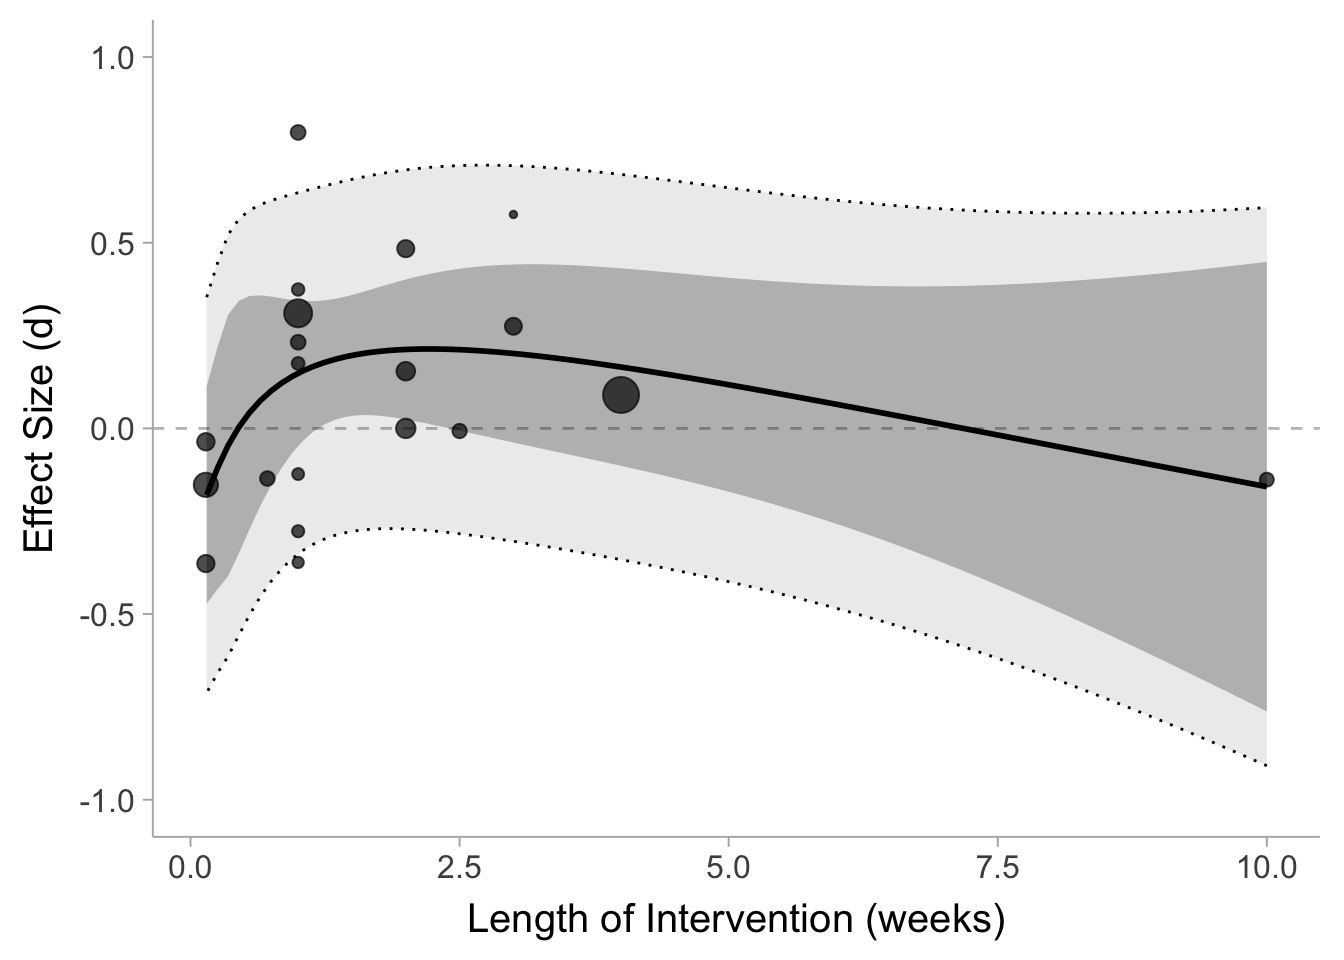
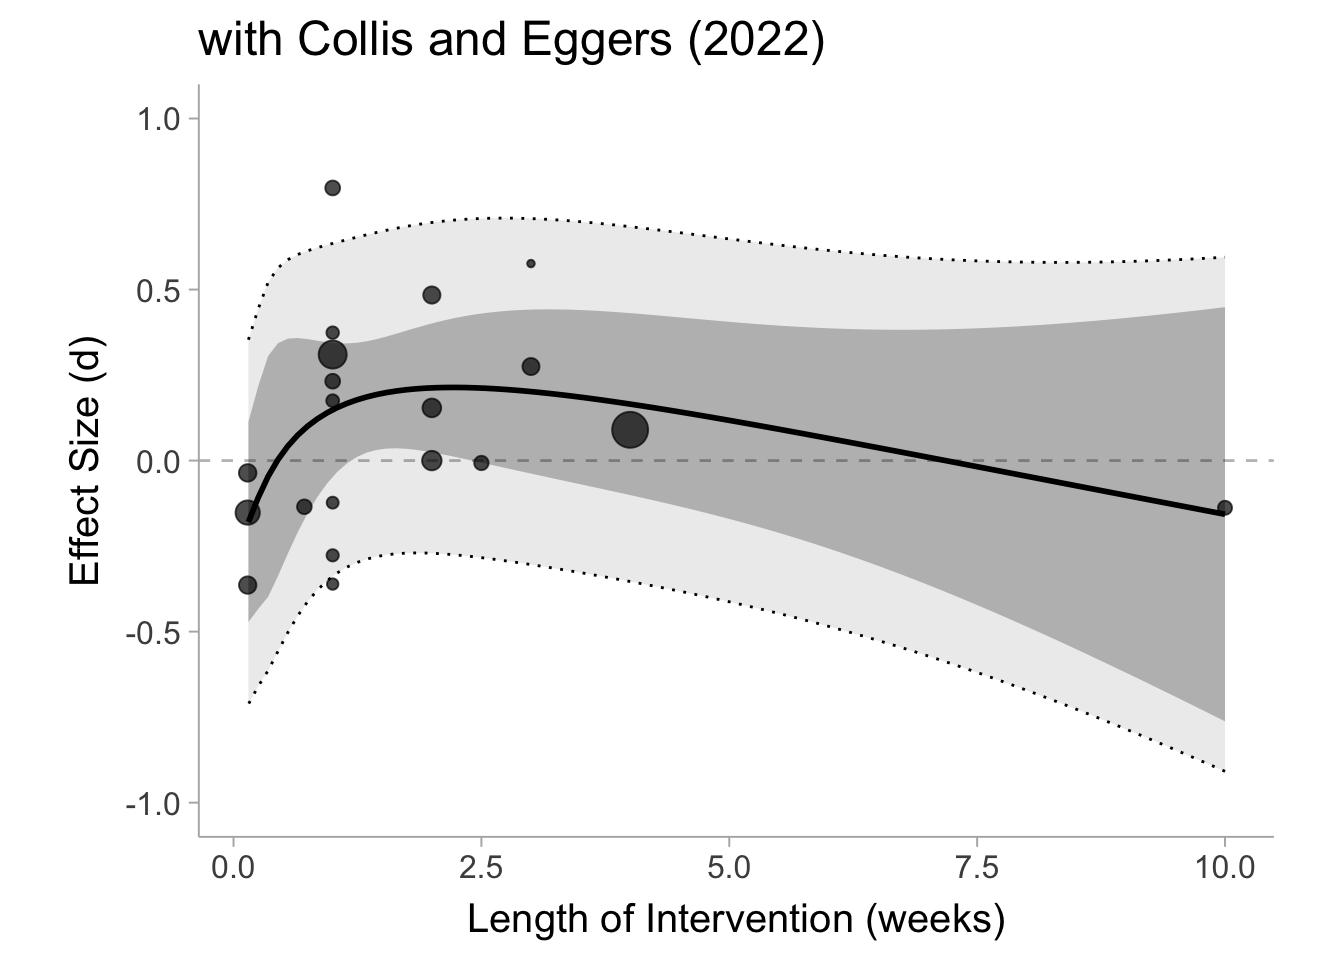
update

diff --git a/docs/blog-posts/blog-post-7.html b/docs/blog-posts/blog-post-7.html
@@ -233,6 +233,7 @@ div.csl-indent {
   <li><a href="#a-note-on-effect-dependency" id="toc-a-note-on-effect-dependency" class="nav-link" data-scroll-target="#a-note-on-effect-dependency">A note on effect dependency</a></li>
   </ul></li>
   <li><a href="#discussion" id="toc-discussion" class="nav-link" data-scroll-target="#discussion">Discussion</a></li>
+  <li><a href="#citing-r-packages" id="toc-citing-r-packages" class="nav-link" data-scroll-target="#citing-r-packages">Citing R packages</a></li>
   </ul>
 </nav>
     </div>
@@ -314,7 +315,7 @@ div.csl-indent {
 <p>The reanalysis doesn’t use an appropriate statistical model. It simply calculates an unweighted average across different studies, doesn’t provide confidence intervals, and misinterprets the evidence</p>
 </blockquote>
 <p>All these points are unequivocally true. However, Haidt then posted the following tweet,</p>
-<p></p><div id="tweet-98999"></div><script>tweet={"url":"https:\/\/twitter.com\/JonHaidt\/status\/1830583665891385415","author_name":"Jonathan Haidt","author_url":"https:\/\/twitter.com\/JonHaidt","html":"\u003Cblockquote class=\"twitter-tweet\" align=\"center\"\u003E\u003Cp lang=\"en\" dir=\"ltr\"\u003EI&#39;m glad to see the community note has been toned down. But it is still inappropriate. Our post was about how there are so many errors in the Ferguson meta, including errors in sample sizes and effect sizes, that we can&#39;t yet do weighting or confidence intervals. We are taking…\u003C\/p\u003E&mdash; Jonathan Haidt (@JonHaidt) \u003Ca href=\"https:\/\/twitter.com\/JonHaidt\/status\/1830583665891385415?ref_src=twsrc%5Etfw\"\u003ESeptember 2, 2024\u003C\/a\u003E\u003C\/blockquote\u003E\n\u003Cscript async src=\"https:\/\/platform.twitter.com\/widgets.js\" charset=\"utf-8\"\u003E\u003C\/script\u003E\n\n","width":550,"height":null,"type":"rich","cache_age":"3153600000","provider_name":"Twitter","provider_url":"https:\/\/twitter.com","version":"1.0"};document.getElementById("tweet-98999").innerHTML = tweet["html"];</script><p></p>
+<p></p><div id="tweet-99889"></div><script>tweet={"url":"https:\/\/twitter.com\/JonHaidt\/status\/1830583665891385415","author_name":"Jonathan Haidt","author_url":"https:\/\/twitter.com\/JonHaidt","html":"\u003Cblockquote class=\"twitter-tweet\" align=\"center\"\u003E\u003Cp lang=\"en\" dir=\"ltr\"\u003EI&#39;m glad to see the community note has been toned down. But it is still inappropriate. Our post was about how there are so many errors in the Ferguson meta, including errors in sample sizes and effect sizes, that we can&#39;t yet do weighting or confidence intervals. We are taking…\u003C\/p\u003E&mdash; Jonathan Haidt (@JonHaidt) \u003Ca href=\"https:\/\/twitter.com\/JonHaidt\/status\/1830583665891385415?ref_src=twsrc%5Etfw\"\u003ESeptember 2, 2024\u003C\/a\u003E\u003C\/blockquote\u003E\n\u003Cscript async src=\"https:\/\/platform.twitter.com\/widgets.js\" charset=\"utf-8\"\u003E\u003C\/script\u003E\n\n","width":550,"height":null,"type":"rich","cache_age":"3153600000","provider_name":"Twitter","provider_url":"https:\/\/twitter.com","version":"1.0"};document.getElementById("tweet-99889").innerHTML = tweet["html"];</script><p></p>
 <p>This tweet seemed to get his followers to rate the community note as unhelpful and thus it was taken down again. Of course, it is difficult to maintain a community note with Haidt’s large following. So I guess we will have to treat these blog posts as a much more detailed community note.</p>
 </section>
 <section id="rhs-analysis-was-unequivocally-a-meta-analysis" class="level2">
@@ -349,7 +350,7 @@ div.csl-indent {
 <section id="controversy-surrounding-the-study-by-collis-and-egger-2022" class="level2">
 <h2 class="anchored" data-anchor-id="controversy-surrounding-the-study-by-collis-and-egger-2022">Controversy surrounding the study by Collis and Egger (2022)</h2>
 <p>R&amp;H’s primary critique of my analysis was that Collis and Egger’s (2022) study shouldn’t be included because the manipulation check failed. From my reading of the paper, the treatment group did demonstrate lower screen time for facebook, instagram, and snapchat, however <em>higher</em> for instant messaging apps, news/media, gaming, as well as overall screen time. R&amp;H mention WhatsApp as one of the primary apps that people replaced social media with. It does not seem that people really consider instant messaging like WhatsApp a form of social media (see poll results below):</p>
-<p></p><div id="tweet-84529"></div><script>tweet={"url":"https:\/\/twitter.com\/MatthewBJane\/status\/1830399884299481182","author_name":"Matthew B Jané","author_url":"https:\/\/twitter.com\/MatthewBJane","html":"\u003Cblockquote class=\"twitter-tweet\" align=\"center\"\u003E\u003Cp lang=\"en\" dir=\"ltr\"\u003EWould you consider WhatsApp and other instant messaging Apps as “Social Media”?\u003C\/p\u003E&mdash; Matthew B Jané (@MatthewBJane) \u003Ca href=\"https:\/\/twitter.com\/MatthewBJane\/status\/1830399884299481182?ref_src=twsrc%5Etfw\"\u003ESeptember 2, 2024\u003C\/a\u003E\u003C\/blockquote\u003E\n\u003Cscript async src=\"https:\/\/platform.twitter.com\/widgets.js\" charset=\"utf-8\"\u003E\u003C\/script\u003E\n\n","width":550,"height":null,"type":"rich","cache_age":"3153600000","provider_name":"Twitter","provider_url":"https:\/\/twitter.com","version":"1.0"};document.getElementById("tweet-84529").innerHTML = tweet["html"];</script><p></p>
+<p></p><div id="tweet-73037"></div><script>tweet={"url":"https:\/\/twitter.com\/MatthewBJane\/status\/1830399884299481182","author_name":"Matthew B Jané","author_url":"https:\/\/twitter.com\/MatthewBJane","html":"\u003Cblockquote class=\"twitter-tweet\" align=\"center\"\u003E\u003Cp lang=\"en\" dir=\"ltr\"\u003EWould you consider WhatsApp and other instant messaging Apps as “Social Media”?\u003C\/p\u003E&mdash; Matthew B Jané (@MatthewBJane) \u003Ca href=\"https:\/\/twitter.com\/MatthewBJane\/status\/1830399884299481182?ref_src=twsrc%5Etfw\"\u003ESeptember 2, 2024\u003C\/a\u003E\u003C\/blockquote\u003E\n\u003Cscript async src=\"https:\/\/platform.twitter.com\/widgets.js\" charset=\"utf-8\"\u003E\u003C\/script\u003E\n\n","width":550,"height":null,"type":"rich","cache_age":"3153600000","provider_name":"Twitter","provider_url":"https:\/\/twitter.com","version":"1.0"};document.getElementById("tweet-73037").innerHTML = tweet["html"];</script><p></p>
 <p>It does not seem clear to me that this is a failed manipulation check, especially considering total digital screen time is not the target intervention variable. R&amp;H also mention there is no evidence that other social media apps were used:</p>
 <blockquote class="blockquote">
 <p>In addition, there is no evidence that participants reduced their use of other social media platforms such as TikTok, YouTube, Twitter, and Reddit (all of which were widely used by college students in 2019).</p>
@@ -518,6 +519,19 @@ div.csl-indent {
 <h2 class="anchored" data-anchor-id="discussion">Discussion</h2>
 <p>Ultimately, after re-running the model with a more sophisticated non-linear regression with and without the Collis &amp; Egger study that Haidt suggested, there not great evidence of sustained detrimental effects in these RCTs. This does not mean social media is not, on average, detrimental for mental health, it just means that these these RCTs do not appear be good evidence of that fact.</p>
 <p>If I did anything incorrectly or if I did not use best practices, I take full responsibility and you can let me know by sending me a DM on twitter or emailing me at matthewbjane@gmail.com.</p>
+</section>
+<section id="citing-r-packages" class="level2">
+<h2 class="anchored" data-anchor-id="citing-r-packages">Citing R packages</h2>
+<p>The following packages were used here:</p>
+<ul>
+<li><code>mgcv</code> <span class="citation" data-cites="mgcv">(<a href="#ref-mgcv" role="doc-biblioref">Wood et al. 2016</a>)</span></li>
+<li><code>splines</code> <span class="citation" data-cites="splines">(<a href="#ref-splines" role="doc-biblioref">R Core Team 2024</a>)</span></li>
+<li><code>osfr</code> <span class="citation" data-cites="osfr">(<a href="#ref-osfr" role="doc-biblioref">Wolen et al. 2020</a>)</span></li>
+<li><code>tidyverse</code> <span class="citation" data-cites="tidyverse">(<a href="#ref-tidyverse" role="doc-biblioref">Wickham et al. 2019</a>)</span></li>
+<li><code>metafor</code> <span class="citation" data-cites="metafor">(<a href="#ref-metafor" role="doc-biblioref">Viechtbauer 2010</a>)</span></li>
+<li><code>readxl</code> <span class="citation" data-cites="readxl">(<a href="#ref-readxl" role="doc-biblioref"><strong>readxl?</strong></a>)</span></li>
+<li><code>psychmeta</code> <span class="citation" data-cites="psychmeta">(<a href="#ref-psychmeta" role="doc-biblioref"><strong>psychmeta?</strong></a>)</span></li>
+</ul>
 <iframe src="https://embeds.beehiiv.com/f3ffd81a-4723-4419-bb1d-afc8af3bac36" data-test-id="beehiiv-embed" width="100%" height="320" frameborder="0" scrolling="no" style="border-radius: 4px; border: 2px solid #33333322; margin: 0; background-color: transparent;">
 </iframe>
 
@@ -528,6 +542,21 @@ div.csl-indent {
 <div id="quarto-appendix" class="default"><section class="quarto-appendix-contents" role="doc-bibliography" id="quarto-bibliography"><h2 class="anchored quarto-appendix-heading">References</h2><div id="refs" class="references csl-bib-body hanging-indent" data-entry-spacing="0" role="list">
 <div id="ref-ferguson2024" class="csl-entry" role="listitem">
 Ferguson, Christopher J. 2024. <span>“Do Social Media Experiments Prove a Link with Mental Health: A Methodological and Meta-Analytic Review.”</span> <em>Psychology of Popular Media</em>, No Pagination Specified–. <a href="https://doi.org/10.1037/ppm0000541">https://doi.org/10.1037/ppm0000541</a>.
+</div>
+<div id="ref-splines" class="csl-entry" role="listitem">
+R Core Team. 2024. <em>R: A Language and Environment for Statistical Computing</em>. Vienna, Austria: R Foundation for Statistical Computing. <a href="https://www.R-project.org/">https://www.R-project.org/</a>.
+</div>
+<div id="ref-metafor" class="csl-entry" role="listitem">
+Viechtbauer, Wolfgang. 2010. <span>“Conducting Meta-Analyses in <span>R</span> with the <span class="nocase">metafor</span> Package.”</span> <em>Journal of Statistical Software</em> 36 (3): 1–48. <a href="https://doi.org/10.18637/jss.v036.i03">https://doi.org/10.18637/jss.v036.i03</a>.
+</div>
+<div id="ref-tidyverse" class="csl-entry" role="listitem">
+Wickham, Hadley, Mara Averick, Jennifer Bryan, Winston Chang, Lucy D’Agostino McGowan, Romain François, Garrett Grolemund, et al. 2019. <span>“Welcome to the <span class="nocase">tidyverse</span>.”</span> <em>Journal of Open Source Software</em> 4 (43): 1686. <a href="https://doi.org/10.21105/joss.01686">https://doi.org/10.21105/joss.01686</a>.
+</div>
+<div id="ref-osfr" class="csl-entry" role="listitem">
+Wolen, Aaron R., Chris H. J. Hartgerink, Ryan Hafen, Brian G. Richards, Courtney K. Soderberg, and Timothy P. York. 2020. <span>“<span class="nocase">osfr</span>: An <span>R</span> Interface to the Open Science Framework.”</span> <em>Journal of Open Source Software</em> 5 (46): 2071. <a href="https://doi.org/10.21105/joss.02071">https://doi.org/10.21105/joss.02071</a>.
+</div>
+<div id="ref-mgcv" class="csl-entry" role="listitem">
+Wood, S. N., N., Pya, and B. S"afken. 2016. <span>“Smoothing Parameter and Model Selection for General Smooth Models (with Discussion).”</span> <em>Journal of the American Statistical Association</em> 111: 1548–75.
 </div>
 </div></section></div></main> <!-- /main -->
 <script id="quarto-html-after-body" type="application/javascript">
